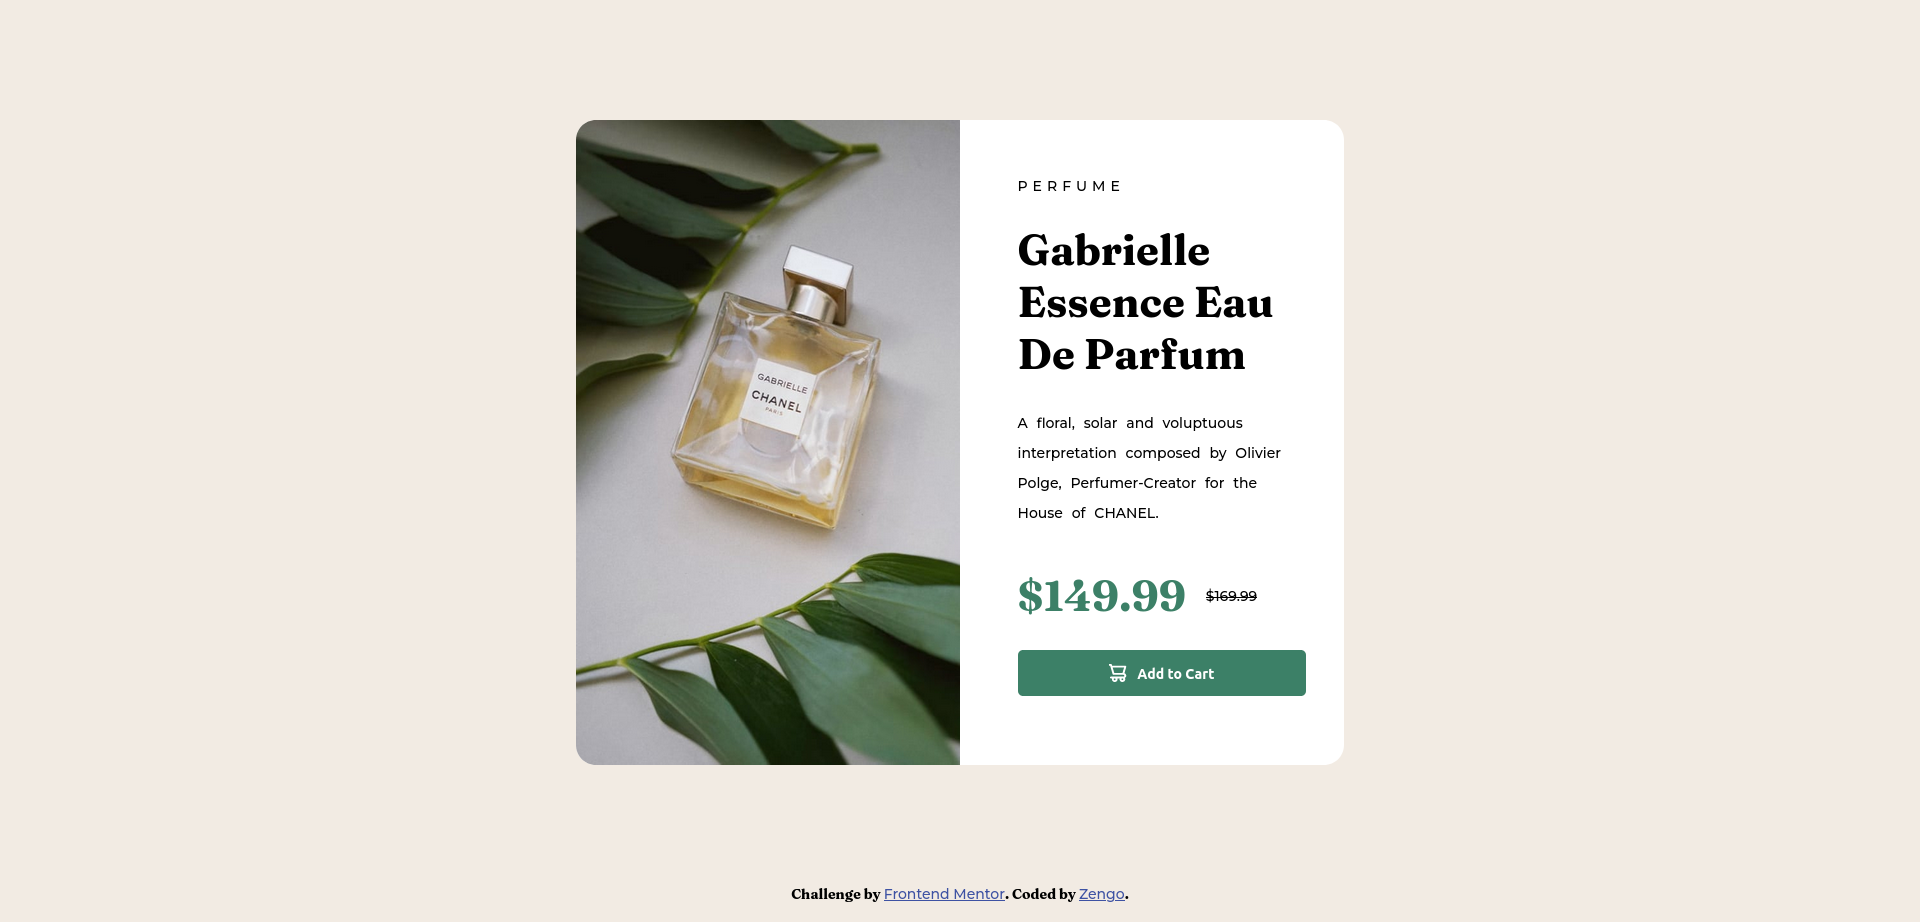
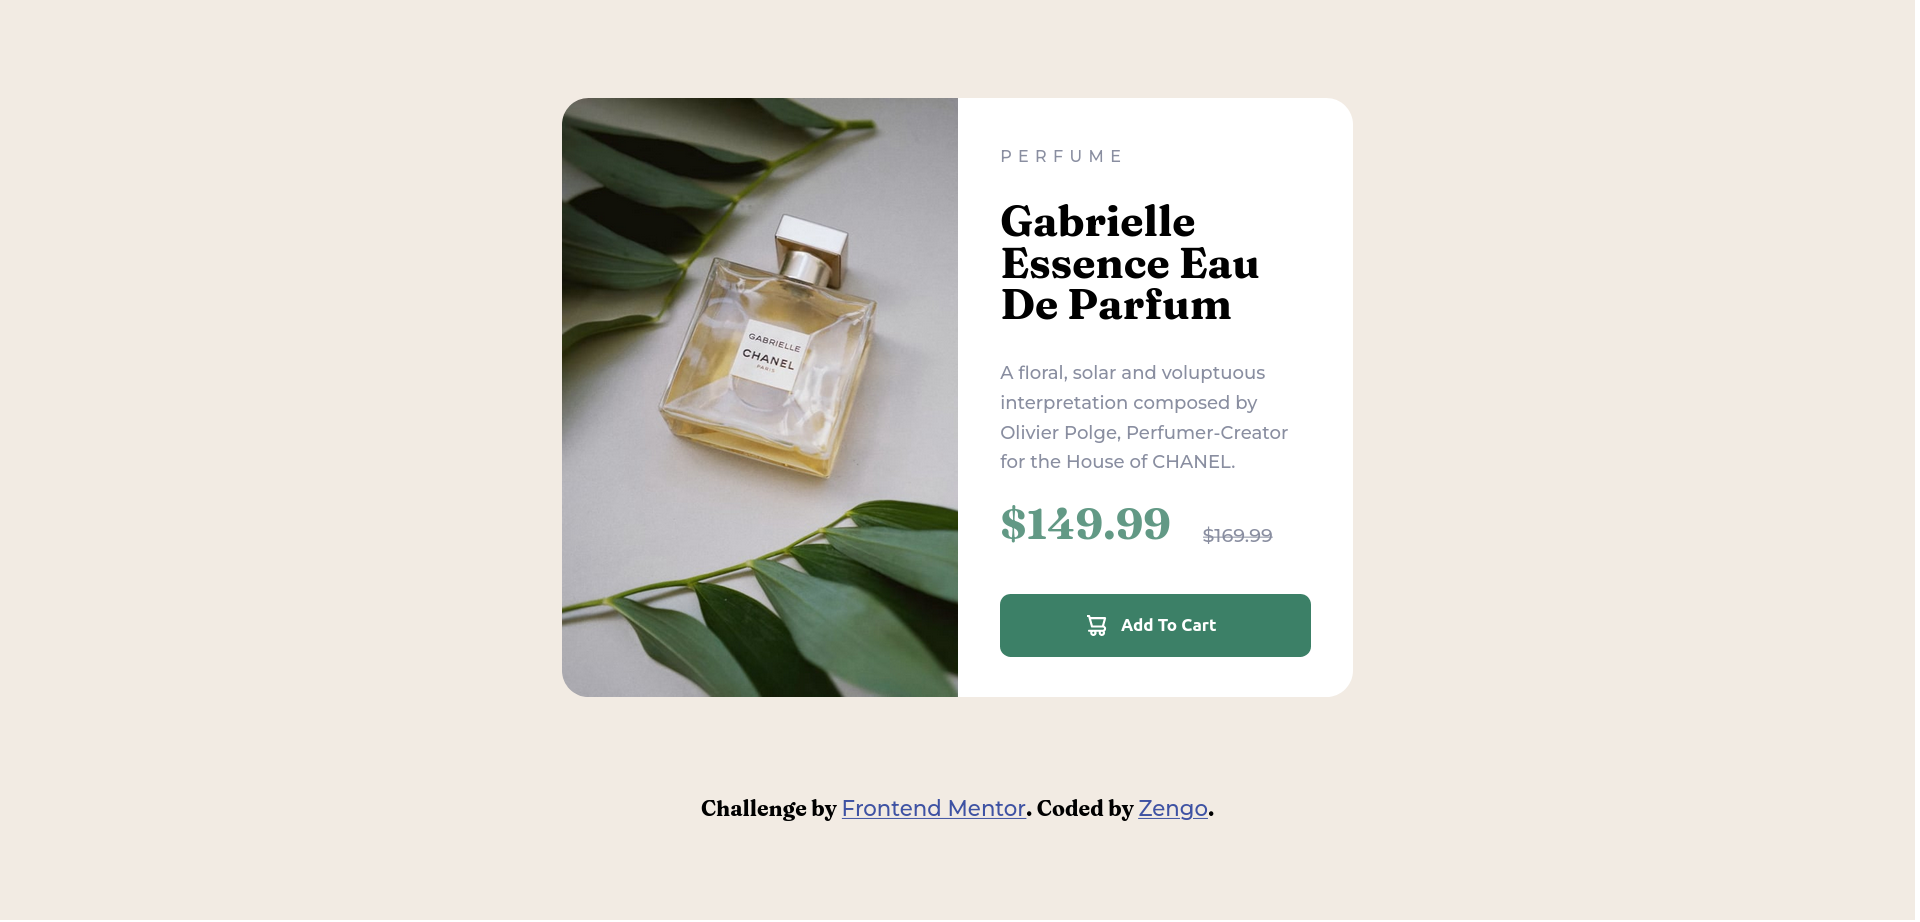
responsive edit

diff --git a/index.html b/index.html
@@ -14,7 +14,7 @@
 <body>
   <div class="product-card">
 
-    <img src="./images/image-product-desktop.png" alt="product-image" width="1024px" height="768px">
+    <img src="./images/image-product-desktop.png" alt="product-image">
 
     <div class="info-container">
 
@@ -29,8 +29,8 @@
       </p>
 
       <div class="price">
-        <h1 class="current">$149.99</h1>
-        <span class="before">$169.99</span>
+        <p class="current">$149.99</p>
+        <p class="before">$169.99</p>
       </div>
 
       <button>
